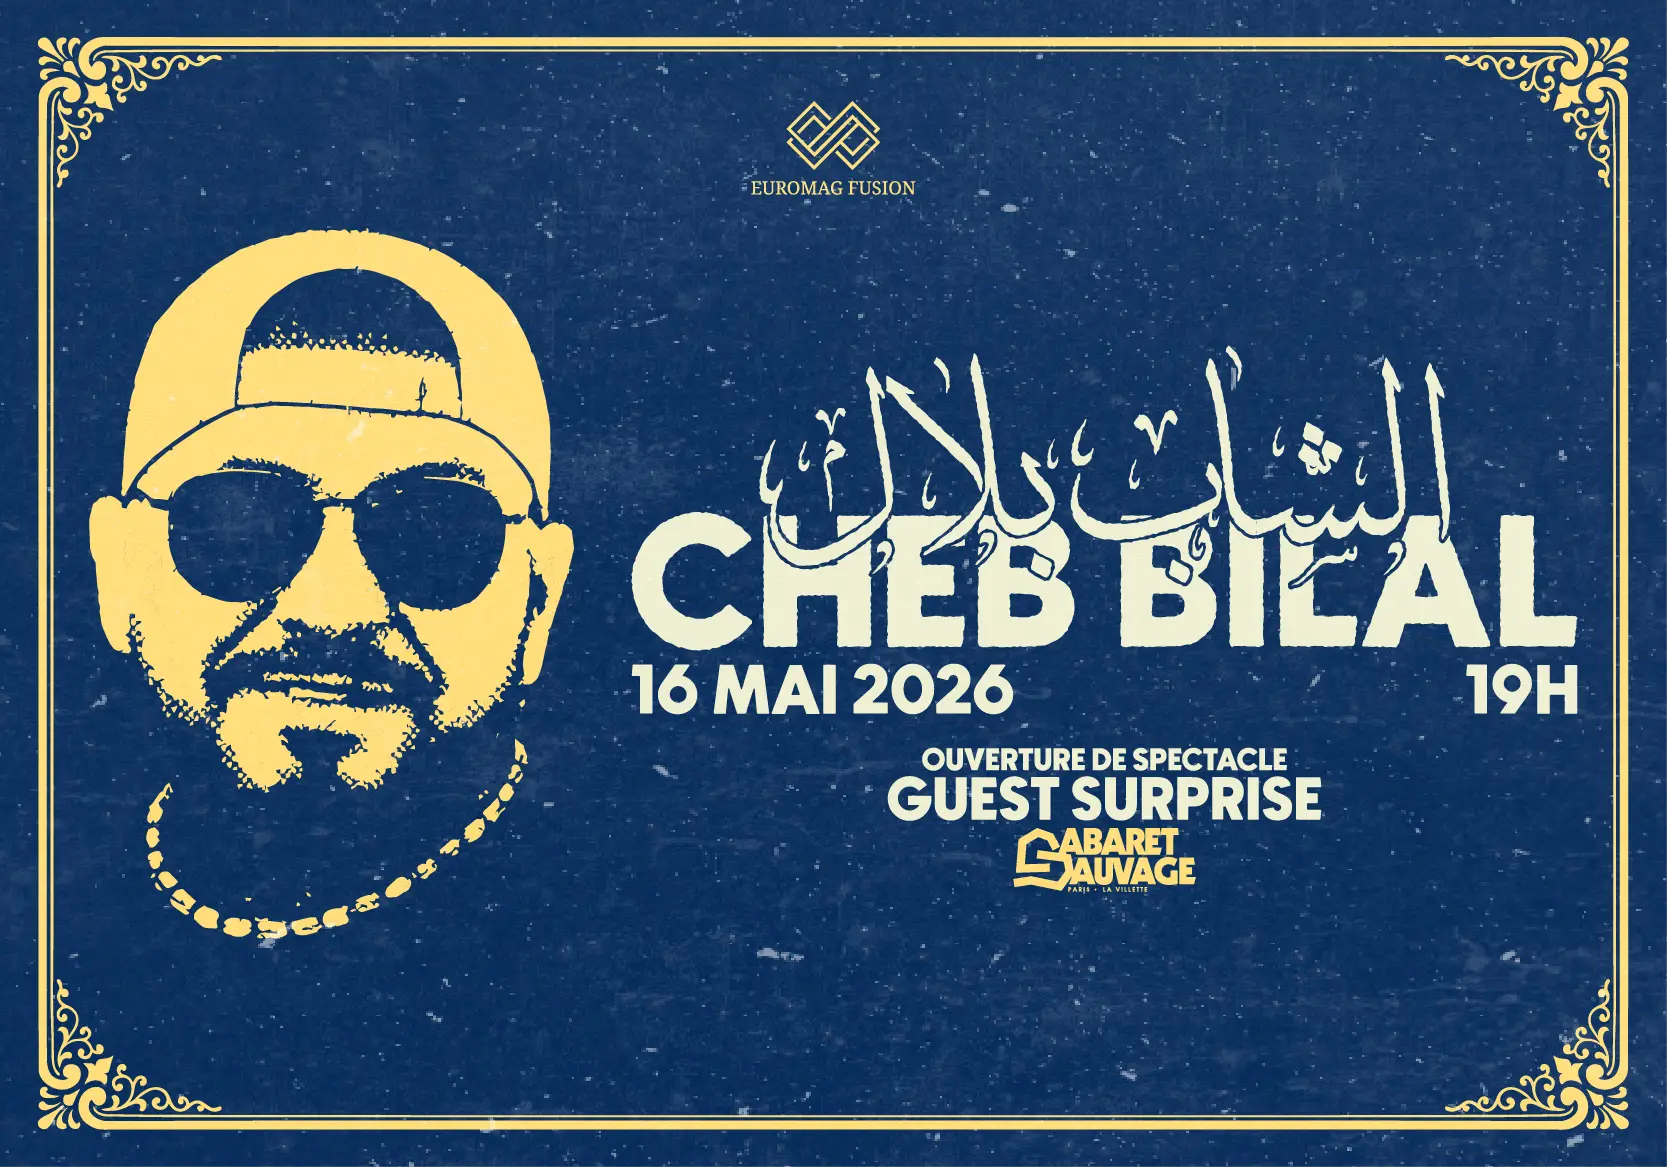
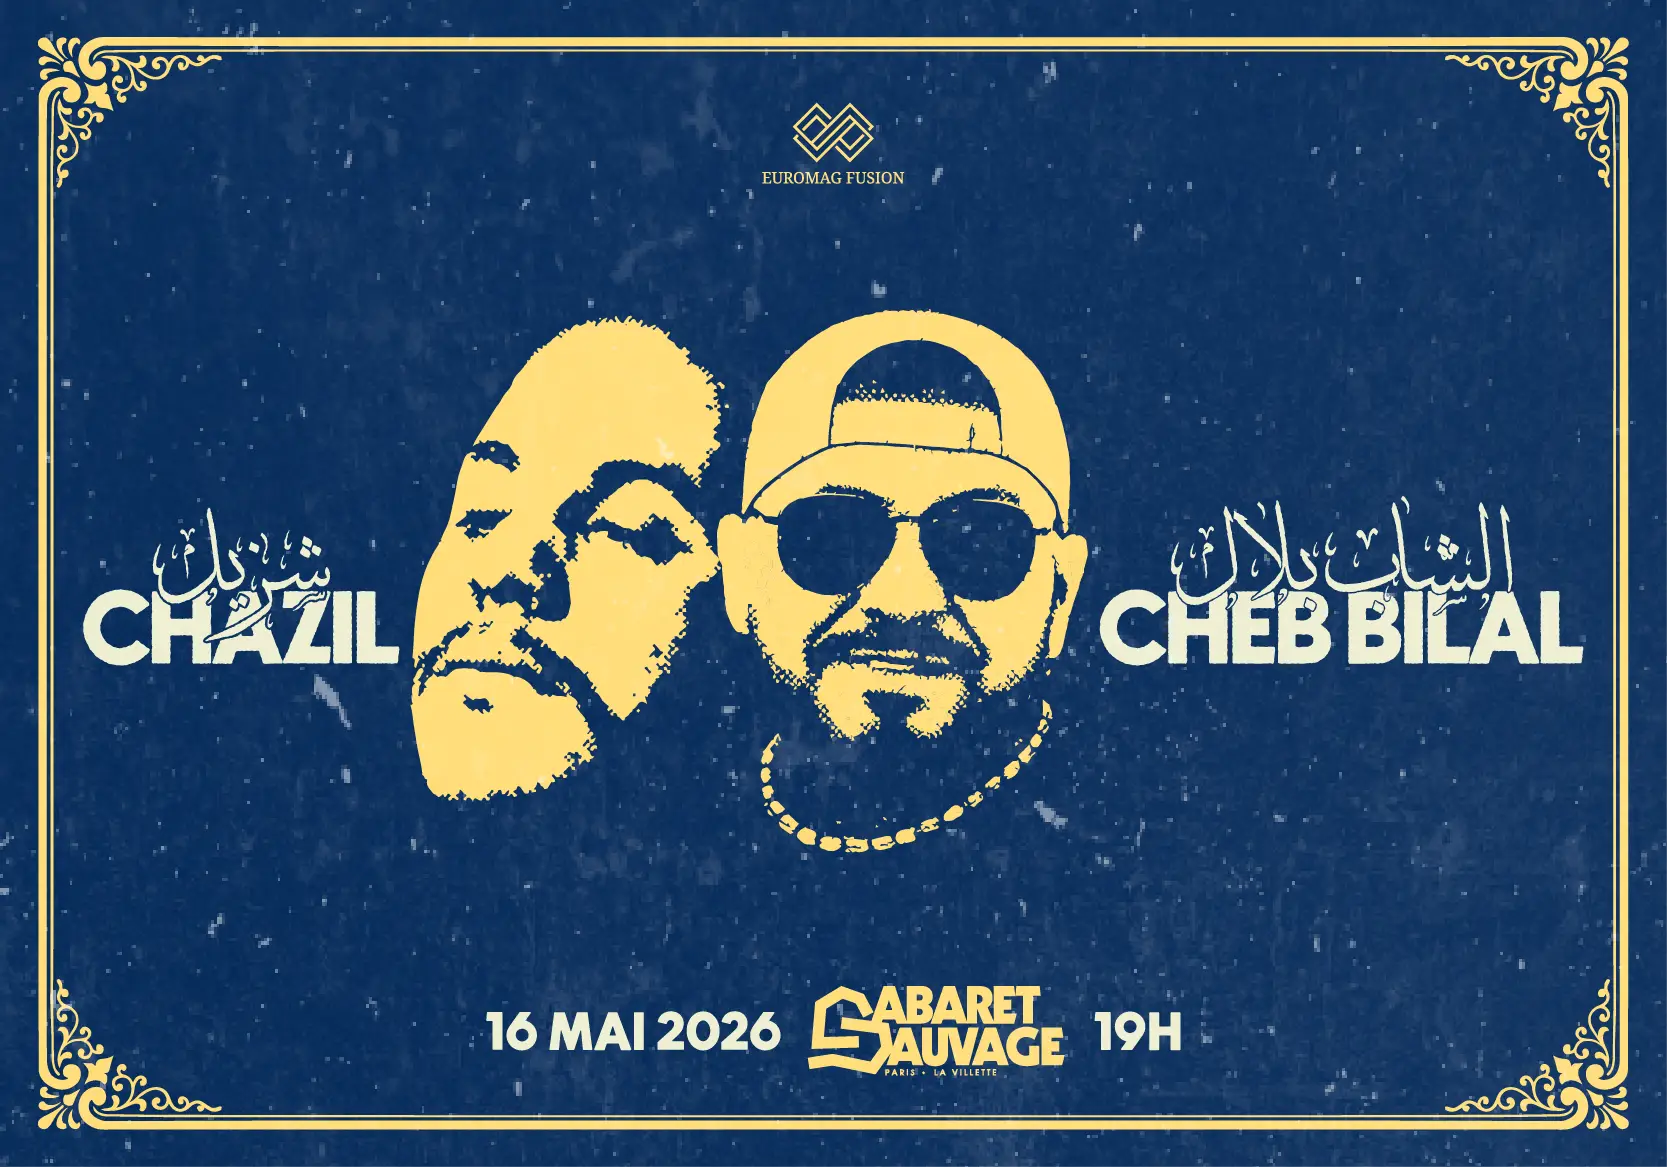
Mise à jour

diff --git a/index.html b/index.html
@@ -171,83 +171,10 @@
                 </div>
                 <div class="tab-content active" id="avenir">
                     <div class="events-grid">
-                        <!-- <article class="event-card" itemscope itemtype="https://schema.org/Event">
-                            <div class="event-image">
-                                <img src="./assets/img/event-tarhanine-cameleon.webp"
-                                    alt="Concert Kader Tarhanine & Cameleon à Paris, rock, reggae, gnaoua" width="400"
-                                    height="280" loading="lazy" itemprop="image">
-                                <div class="event-overlay">
-                                    <button class="play-btn" data-video="https://youtube.com/shorts/QUUCUWYxgXE"
-                                        data-modal="videoModal">▶</button>
-                                </div>
-                            </div>
-                            <div class="event-content">
-                                <div class="event-meta">
-                                    <span class="event-date" itemprop="startDate" content="2026-01-16">16 Janvier
-                                        2026</span>
-                                    <span class="event-location" itemprop="location" itemscope
-                                        itemtype="https://schema.org/Place">
-                                        <span itemprop="name">Cabaret Sauvage, Paris</span>
-                                    </span>
-                                </div>
-                                <h3 class="event-title" itemprop="name">CAMELEON & KADER TARHANINE</h3>
-                                <p class="event-description" itemprop="description">
-                                    Du désert à la ville : <strong>Kader Tarhanine</strong> et <strong>Cameleon</strong>
-                                    célèbrent l'Algérie dans un voyage musical puissant et hypnotique.
-                                </p>
-                                <div class="event-actions">
-                                    <a href="event-details.html?event=tarhaninecameleon" class="read-more-btn"
-                                        title="Lire plus sur Kader Tarhanine & Cameleon">Lire plus</a>
-                                    <a href="https://www.helloasso.com/associations/euromag-fusion/evenements/cameleon-kader-tarhanine-1"
-                                        class="reserve-btn" target="_blank" rel="noopener noreferrer"
-                                        title="Réserver vos billets pour le concert">
-                                        <span>Réserver</span>
-                                        <span class="arrow-icon">→</span>
-                                    </a>
-                                </div>
-                            </div>
-                        </article> -->
-                        <article class="event-card" itemscope itemtype="https://schema.org/Event">
-                            <div class="event-image">
-                                <img src="./assets/img/event-kamel-aziz-tarik-ayad.webp"
-                                    alt="Concert Kamel Aziz & Tarik Ayad à Paris, musique algérienne, fusion moderne"
-                                    width="400" height="280" loading="lazy" itemprop="image">
-                                <!-- <div class="event-overlay">
-                                    <button class="play-btn" data-video="https://youtube.com/shorts/QUUCUWYxgXE"
-                                        data-modal="videoModal">▶</button>
-                                </div> -->
-                            </div>
-                            <div class="event-content">
-                                <div class="event-meta">
-                                    <span class="event-date" itemprop="startDate" content="2026-01-16">10 Avril
-                                        2026</span>
-                                    <span class="event-location" itemprop="location" itemscope
-                                        itemtype="https://schema.org/Place">
-                                        <span itemprop="name">Cabaret Sauvage, Paris</span>
-                                    </span>
-                                </div>
-                                <h3 class="event-title" itemprop="name">KAMEL AZIZ & TARIK AYAD</h3>
-                                <p class="event-description" itemprop="description">
-                                    Une fusion envoûtante : <strong>Kamel Aziz</strong> et <strong>Tarik Ayad</strong>
-                                    vous emportent dans un voyage musical entre tradition et modernité.
-                                </p>
-                                <div class="event-actions">
-                                    <a href="event-details.html?event=kamel-aziz-tarik-ayad" class="read-more-btn"
-                                        title="Lire plus sur Kamel Aziz & Tarik Ayad">Lire plus</a>
-                                    <a href="https://www.helloasso.com/associations/euromag-fusion/evenements/kamel-aziz-tarik-ayad-les-nuits-de-la-casbah"
-                                        class="reserve-btn" target="_blank" rel="noopener noreferrer"
-                                        title="Réserver vos billets pour le concert">
-                                        <span>Réserver</span>
-                                        <span class="arrow-icon">→</span>
-                                    </a>
-                                </div>
-                            </div>
-                        </article>
-
                         <article class="event-card" itemscope itemtype="https://schema.org/Event">
                             <div class="event-image">
                                 <img src="./assets/img/event-bilal.webp"
-                                    alt="Concert Cheb Bilal à Paris, raï, musique algérienne" width="400" height="280"
+                                    alt="Concert Cheb Bilal & Chazil à Paris, raï, musique algérienne" width="400" height="280"
                                     loading="lazy" itemprop="image">
                                 <!-- <div class="event-overlay">
                                     <button class="play-btn" data-video="https://youtube.com/shorts/EXEMPLE_VIDEO_BILAL"
@@ -263,10 +190,10 @@
                                         <span itemprop="name">Cabaret Sauvage, Paris</span>
                                     </span>
                                 </div>
-                                <h3 class="event-title" itemprop="name">CHEB BILAL</h3>
+                                <h3 class="event-title" itemprop="name">CHEB BILAL & CHAZIL</h3>
                                 <p class="event-description" itemprop="description">
-                                    Une soirée inoubliable avec <strong>Cheb Bilal</strong>, l'ambassadeur du raï
-                                    moderne.
+                                    Une soirée inoubliable avec <strong>Cheb Bilal</strong> et notre <strong>Chazil</strong>, l'ambassadeur du raï
+                                    moderne et notre étoile montante.
                                     Entre tradition et modernité, plongez dans l'énergie envoûtante de ses tubes cultes.
                                 </p>
                                 <div class="event-actions">
@@ -336,6 +263,37 @@
                 </div>
                 <div class="tab-content" id="passes">
                     <div class="events-grid">
+                        
+                        <article class="event-card" itemscope itemtype="https://schema.org/Event">
+                            <div class="event-image">
+                                <img src="./assets/img/event-kamel-aziz-tarik-ayad.webp"
+                                    alt="Concert Kamel Aziz & Tarik Ayad à Paris, musique algérienne, fusion moderne"
+                                    width="400" height="280" loading="lazy" itemprop="image">
+                                <!-- <div class="event-overlay">
+                                    <button class="play-btn" data-video="https://youtube.com/shorts/QUUCUWYxgXE"
+                                        data-modal="videoModal">▶</button>
+                                </div> -->
+                            </div>
+                            <div class="event-content">
+                                <div class="event-meta">
+                                    <span class="event-date" itemprop="startDate" content="2026-01-16">10 Avril
+                                        2026</span>
+                                    <span class="event-location" itemprop="location" itemscope
+                                        itemtype="https://schema.org/Place">
+                                        <span itemprop="name">Cabaret Sauvage, Paris</span>
+                                    </span>
+                                </div>
+                                <h3 class="event-title" itemprop="name">KAMEL AZIZ & TARIK AYAD</h3>
+                                <p class="event-description" itemprop="description">
+                                    Une fusion envoûtante : <strong>Kamel Aziz</strong> et <strong>Tarik Ayad</strong>
+                                    vous emportent dans un voyage musical entre tradition et modernité.
+                                </p>
+                                <div class="event-actions">
+                                    <a href="event-details.html?event=kamel-aziz-tarik-ayad" class="read-more-btn"
+                                        title="Lire plus sur Kamel Aziz & Tarik Ayad">Lire plus</a>
+                                </div>
+                            </div>
+                        </article>
                         <article class="event-card" itemscope itemtype="https://schema.org/Event">
                             <div class="event-image">
                                 <img src="./assets/img/event-tarhanine-cameleon.webp"

diff --git a/assets/js/script-event-details.js b/assets/js/script-event-details.js
@@ -193,7 +193,7 @@ const eventData = {
         price: '35€',
         image: './assets/img/banner-kamel-aziz-tarik-ayad.webp',
         video: 'c7UwD-7BBt0',
-        reservation: 'https://www.helloasso.com/associations/euromag-fusion/evenements/kamel-aziz-tarik-ayad-les-nuits-de-la-casbah',
+        reservation: '',
         description: `
             <br />
             <p>Les Nuits de la Casbah vous invitent à une soirée exceptionnelle dédiée au chaâbi algérien, portée par deux concerts complets de Tarik Ayad et Kamel Aziz, sous la présentation du comédien Hicham Mesbah.</p>
@@ -232,7 +232,7 @@ const eventData = {
         ]
     },
     'cheb-bilal': {
-        title: 'CHEB BILAL',
+        title: 'CHEB BILAL & CHAZIL',
         date: '16 Mai 2026',
         location: 'Cabaret Sauvage, Paris',
         type: 'Concert',
@@ -242,6 +242,22 @@ const eventData = {
         video: 'c7UwD-7BBt0',
         reservation: 'https://www.helloasso.com/associations/euromag-fusion/evenements/cheb-bilal',
         description: `
+            <br />
+            <p><strong>EUROMAG FUSION</strong> vous invite à une soirée musicale exceptionnelle au Cabaret Sauvage le 16 mai 2026, avec le légendaire <strong>Cheb Bilal</strong> et notre étoile montante <strong>Chazil</strong> !</p>
+            <p>Une soirée à ne pas manquer pour célébrer la magie du raï avec ses plus grands ambassadeurs !</p>
+            <br />
+            <strong><h3>Chazil</h3></strong>
+            <br />
+            <p><strong>Chazil Adlene Bahloul</strong> est un chanteur, auteur et compositeur algérien originaire de Constantine, qui s’impose aujourd’hui comme l’une des voix montantes du raï moderne. Ayant grandi au cœur de la Casbah, il forge une identité artistique profondément ancrée dans la culture algérienne, nourrie par son vécu et les réalités sociales qui l’entourent.</p>
+            <p>Doté d’une voix grave et expressive, <strong>Chazil</strong> se distingue par une approche sincère et émotionnelle de la musique. Ses chansons explorent des thèmes universels tels que l’amour, le manque, le regret et l’espoir, créant une connexion directe avec une génération en quête d’authenticité.</p>
+            <p>Son univers musical repose sur une fusion audacieuse entre les sonorités traditionnelles algériennes — raï, chaâbi, malouf, gnawi, aïssaoua — et des influences internationales comme le flamenco, le rock, le reggae ou encore la musique africaine et turque. Cette richesse donne naissance à un style singulier, à la fois enraciné et ouvert sur le monde.</p>
+            <p>À travers son projet <strong>“RAI RAYI”, Chazil</strong> propose une vision moderne du raï, en créant un pont entre héritage et innovation, avec l’ambition de faire rayonner la musique algérienne à l’international.</p>
+            <p>L’année 2025 marque un tournant dans son parcours : entre son passage dans <strong>The Voice Arabe</strong> et une performance remarquée au Palais des Congrès de Paris devant plus de 4000 spectateurs, il franchit un cap important et élargit considérablement son audience.</p>
+            <p>En 2026, il confirme cette dynamique avec la sortie du single <strong>“Mani Nassi”</strong>, qui connaît un véritable engouement sur les plateformes et les réseaux sociaux, générant un fort buzz et renforçant sa présence auprès d’un public toujours plus large.</p>
+            <p>Aujourd’hui, <strong>Chazil</strong> enchaîne les projets et les scènes, affirmant une identité artistique forte, entre émotion, modernité et héritage.<p/>
+            <p><strong>Chazil</strong> incarne une génération d’artistes qui transforment leurs racines en une force créative moderne. À travers sa musique, il porte une vision claire : toucher les cœurs et faire voyager la culture algérienne, sans frontières.</p>
+            <br />
+            <strong><h3>Cheb Bilal</h3></strong>
             <br />
             <p>Référence incontestée du raï, <strong>Cheb Bilal</strong> s’impose depuis plus de trois décennies comme l’une des voix les plus marquantes de la musique algérienne. Il rejoint aujourd’hui Cheb Khaled et Cheb Mami dans le club très fermé des grandes vedettes du raï, grâce à une carrière exceptionnelle jalonnée de succès et de tournées à travers le monde.</p><br />
             <p>Son style unique, reconnaissable entre tous, mêle puissance vocale, mélodies profondes et textes sincères qui parlent d’amour, de nostalgie, d’exil et de réalités sociales. Cheb Bilal a su toucher plusieurs générations de fans et inscrire durablement ses chansons dans le patrimoine musical du raï à l'international.</p><br />
